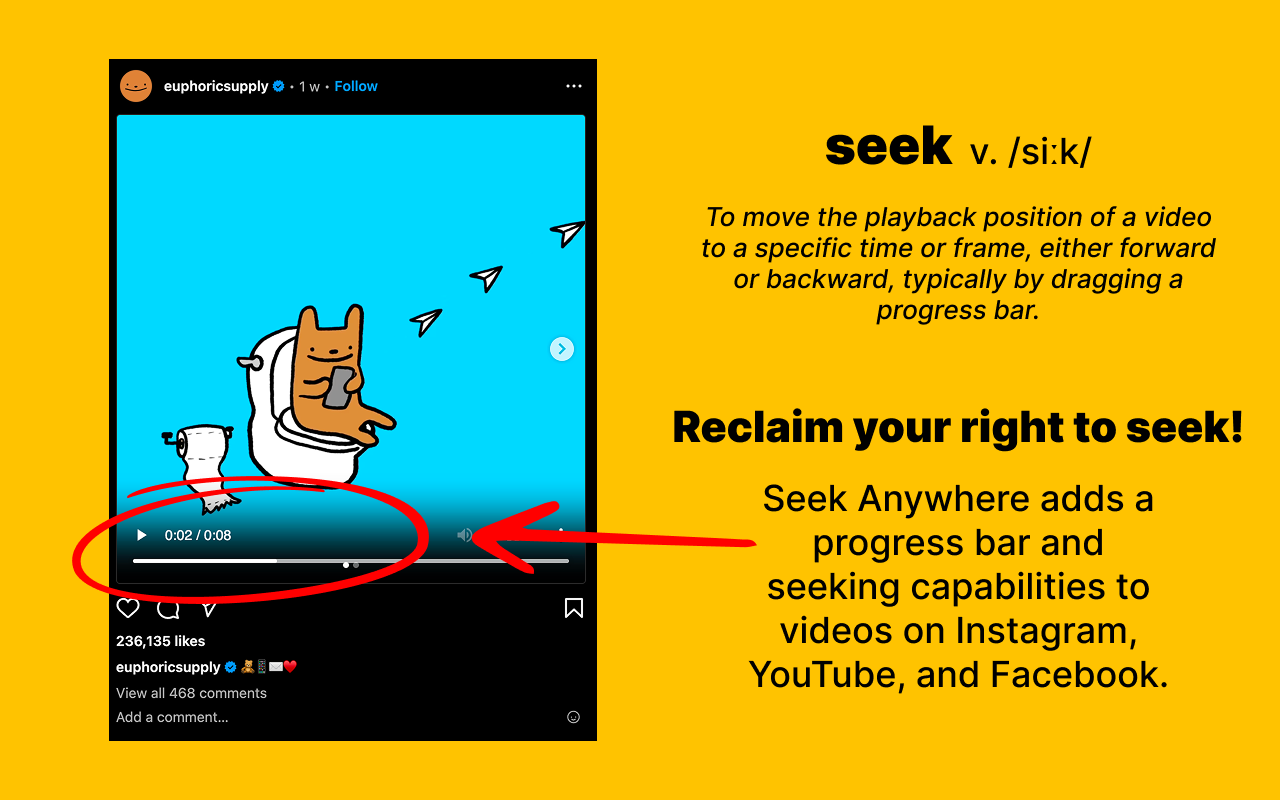
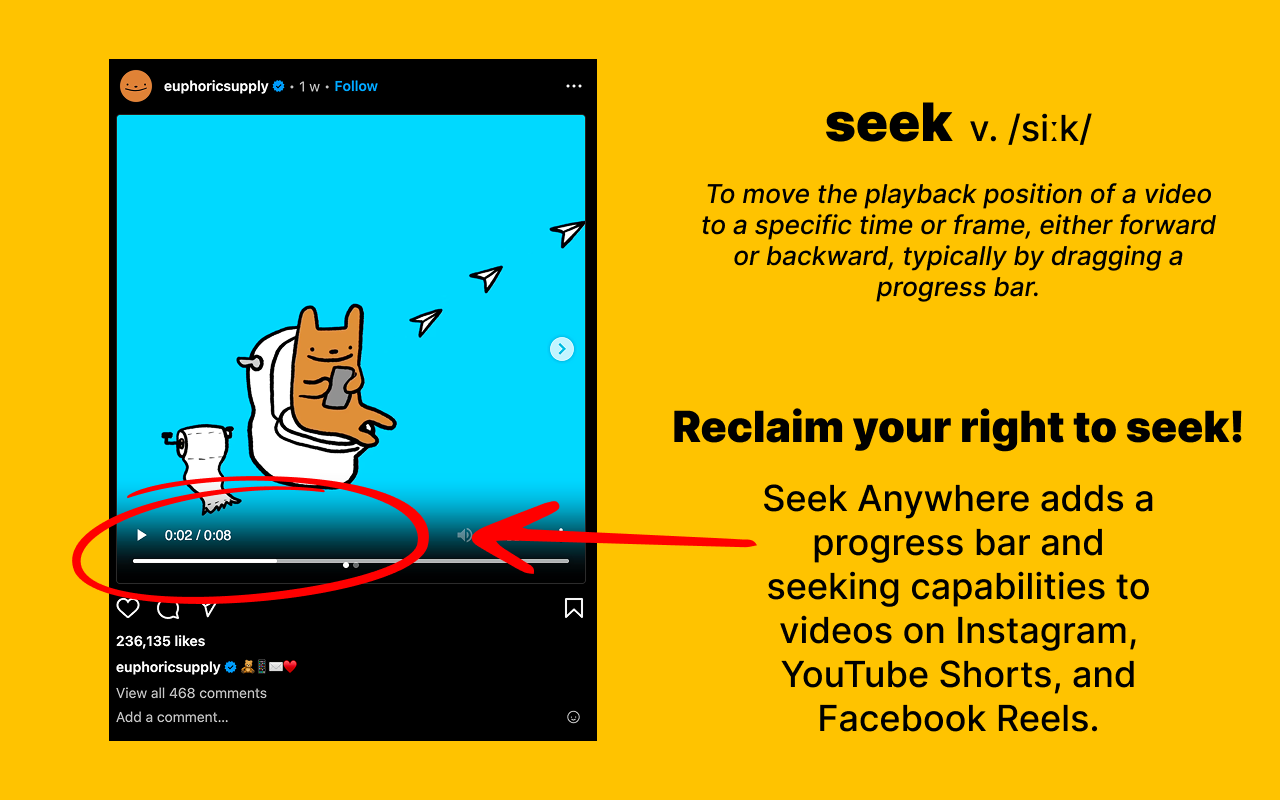
various design and copy tweaks

Changed region(s): [[0.5312, 0.125, 0.9688, 0.4062], [0.5938, 0.8125, 0.9062, 0.9375]]

diff --git a/popup.html b/popup.html
@@ -100,19 +100,23 @@
       }
 
       .modal {
-        display: none;
+        display: none; /* Hidden by default */
         position: fixed;
         z-index: 999;
-        left: 0;
         top: 0;
+        left: 0;
         width: 100%;
         height: 100%;
         background-color: rgba(0, 0, 0, 0.4);
+
+        justify-content: center;
+        align-items: flex-start;
+        padding-top: 50vh; /* halfway down */
+        box-sizing: border-box;
       }
 
       .modal-content {
         background-color: #fff;
-        margin: 15% auto;
         padding: 20px;
         width: 85%;
         max-width: 240px;
@@ -121,6 +125,7 @@
         line-height: 1.5;
         box-shadow: 0 2px 10px rgba(0, 0, 0, 0.2);
         position: relative;
+        transform: translateY(-50%);
       }
 
       #modal-close {
@@ -134,23 +139,72 @@
 
       .footer {
         display: flex;
-        justify-content: center;
+        justify-content: space-between;
         align-items: center;
-        font-size: 12px;
-        color: #888;
-        margin-top: 16px;
+        padding: 8px 12px;
+        font-size: 14px;
+      }
+
+      .footer-left {
+        display: flex;
+        align-items: center;
+      }
+
+      .footer-link {
+        display: inline-flex;
+        align-items: center;
+        text-decoration: none;
+        color: #444;
         gap: 6px;
+        font-size: 12px;
+        font-weight: 600;
+        transition: color 0.2s ease;
+      }
+
+      .footer-link:hover {
+        color: #000;
       }
 
       .github-icon {
         width: 16px;
         height: 16px;
-        opacity: 0.7;
-        transition: opacity 0.2s ease;
+        display: block;
       }
 
-      .github-icon:hover {
-        opacity: 1;
+      .footer-right {
+        display: flex;
+        align-items: center;
+        gap: 4px;
+      }
+
+      .by-text {
+        font-size: 12px;
+        color: #888;
+      }
+
+      .soliloquy a {
+        font-weight: 600;
+        color: #1489ff;
+        text-decoration: none;
+      }
+
+      .audio {
+        font-weight: 900;
+        color: black;
+      }
+
+      .diary {
+        font-weight: 900;
+        color: #1489ff;
+      }
+
+      .audio-diary-link {
+        font-weight: 900;
+        text-decoration: none;
+        text-align: center;
+        color: #1489ff;
+        font-size: 16px;
+        width: 100%;
       }
     </style>
   </head>
@@ -161,7 +215,7 @@
     </div>
 
     <div class="section youtube">
-      <div class="section-title">YouTube</div>
+      <div class="section-title">YouTube Shorts</div>
       <label>
         <span>Override seek behavior</span>
         <input type="checkbox" id="youtube-toggle" />
@@ -175,7 +229,7 @@
         <input type="checkbox" id="youtube-hide-title" />
       </label>
       <label>
-        <span>Hide description <span class="hint">(starts with ▶)</span></span>
+        <span>Hide description</span>
         <input type="checkbox" id="youtube-hide-description" />
       </label>
       <label>
@@ -186,7 +240,9 @@
         <span>Hide weird "search" button</span>
         <input type="checkbox" id="youtube-hide-search-button" />
       </label>
-      <a href="#" class="notes-link" data-platform="youtube">notes</a>
+      <a href="#" class="notes-link modal-link" data-platform="youtube"
+        >platform notes</a
+      >
     </div>
 
     <div class="section instagram">
@@ -195,32 +251,49 @@
         <span>Override seek behavior</span>
         <input type="checkbox" id="instagram-toggle" />
       </label>
-      <a href="#" class="notes-link" data-platform="instagram">notes</a>
+      <a href="#" class="notes-link modal-link" data-platform="instagram"
+        >platform notes</a
+      >
     </div>
 
     <div class="section facebook">
-      <div class="section-title">Facebook</div>
+      <div class="section-title">Facebook Reels</div>
       <label>
         <span>Override seek behavior</span>
         <input type="checkbox" id="facebook-toggle" />
       </label>
-      <a href="#" class="notes-link" data-platform="facebook">notes</a>
+      <a href="#" class="notes-link modal-link" data-platform="facebook"
+        >platform notes</a
+      >
     </div>
 
     <div class="section tiktok">
       <div class="section-title">TikTok</div>
-      <a href="#" class="notes-link" data-platform="tiktok">notes</a>
+      <a href="#" class="notes-link modal-link" data-platform="tiktok"
+        >platform notes</a
+      >
     </div>
 
     <div class="footer">
-      <span>by @darajava</span>
-      <a
-        href="https://github.com/darajava"
-        target="_blank"
-        title="View on GitHub"
-      >
-        <img src="icons/github.svg" alt="GitHub" class="github-icon" />
-      </a>
+      <div class="footer-left">
+        <a
+          href="https://github.com/darajava/seek-anywhere"
+          target="_blank"
+          title="View on GitHub"
+          class="footer-link"
+        >
+          Open Source
+          <img src="icons/github.svg" alt="GitHub" class="github-icon" />
+        </a>
+      </div>
+      <div class="footer-right">
+        <span class="by-text">By</span>
+        <span class="soliloquy">
+          <a href="#" class="modal-link" data-platform="soliloquy">
+            Soliloquy Apps
+          </a>
+        </span>
+      </div>
     </div>
 
     <!-- Modal -->

diff --git a/popup.js b/popup.js
@@ -22,10 +22,18 @@ document.addEventListener("DOMContentLoaded", () => {
       });
     });
 
-    // YouTube sub-options
+    const youtubeDefaults = {
+      "youtube-hide-channel": false,
+      "youtube-hide-title": false,
+      "youtube-hide-description": true,
+      "youtube-hide-track": true,
+      "youtube-hide-search-button": true,
+    };
+
     youtubeOptions.forEach((key) => {
       const checkbox = document.getElementById(key);
-      const isChecked = settings[key] !== false; // default: true
+      const isChecked =
+        settings[key] !== undefined ? settings[key] : youtubeDefaults[key];
       checkbox.checked = isChecked;
 
       checkbox.addEventListener("change", () => {
@@ -37,8 +45,8 @@ document.addEventListener("DOMContentLoaded", () => {
 
 const notes = {
   youtube: `
-    <strong>YouTube</strong><br/><br/>
-    - YouTube does have its own seek bar, but it's kept out of view and it doesn't allow the user to tell the length of the video at a glance.<br/><br/>
+    <strong>YouTube Shorts</strong><br/><br/>
+    - YouTube Shorts do have their own seek bars, but they're kept out of view and don't allow the user to tell the length of the video at a glance.<br/><br/>
     - YouTube Shorts interface is crazy cluttered, so we have some options to remove most elements from view.<br/><br/>
     - The seek bar doesn't work perfectly--you can't "drag" it, but I think it is a lot better than YouTube's default one. (PRs are very welcome here)
   `,
@@ -47,14 +55,17 @@ const notes = {
     - Instagram has a pretty clean video interface, so we only add native seeking controls.
   `,
   facebook: `
-    <strong>Facebook</strong><br/><br/>
-    - Facebook has a crazy amount of clutter on its reels, and also no seeking controls. So kind of the worst of both worlds.<br/><br/>
+    <strong>Facebook Reels</strong><br/><br/>
+    - Facebook's Reels have a crazy amount of clutter, and also no seeking controls.<br/><br/>
     - Facebook's HTML structure is extremely obsfuscated, so we just remove all the clutter and added a seek bar. If anyone wants to add more fine-grained control, PRs are most welcome!
   `,
   tiktok: `
     <strong>TikTok</strong><br/><br/>
-    - TikTok actually has pretty good seek behavior! (with the comments open).<br/><br/>
-    - Shame it's such an terrible platform.
+    - TikTok actually has pretty good seek behavior! (with the comments open).
+  `,
+  soliloquy: `
+    <strong>Soliloquy Apps</strong><br/><br/>
+    Enjoying this extension?<br/><br/>We also built <span class="audio">Audio</span><span class="diary">Diary</span>--a super smart voice-powered journal that's gotten lots of love from its users.<br/><br/><center><a href="https://audiodiary.ai" class="audio-diary-link" target="_blank">Try it out here!</a></center>
   `,
 };
 
@@ -66,12 +77,12 @@ document.addEventListener("DOMContentLoaded", () => {
   const modalBody = document.getElementById("modal-body");
   const modalClose = document.getElementById("modal-close");
 
-  document.querySelectorAll(".notes-link").forEach((link) => {
+  document.querySelectorAll(".modal-link").forEach((link) => {
     link.addEventListener("click", (e) => {
       e.preventDefault();
       const platform = link.getAttribute("data-platform");
       modalBody.innerHTML = notes[platform] || "No notes available.";
-      modal.style.display = "block";
+      modal.style.display = "flex";
     });
   });
 
